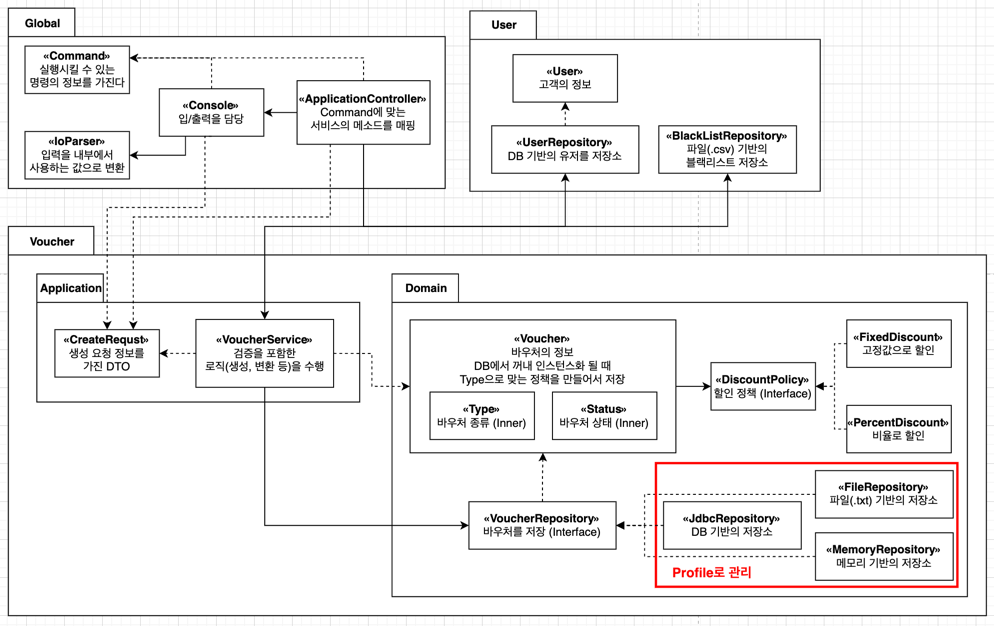
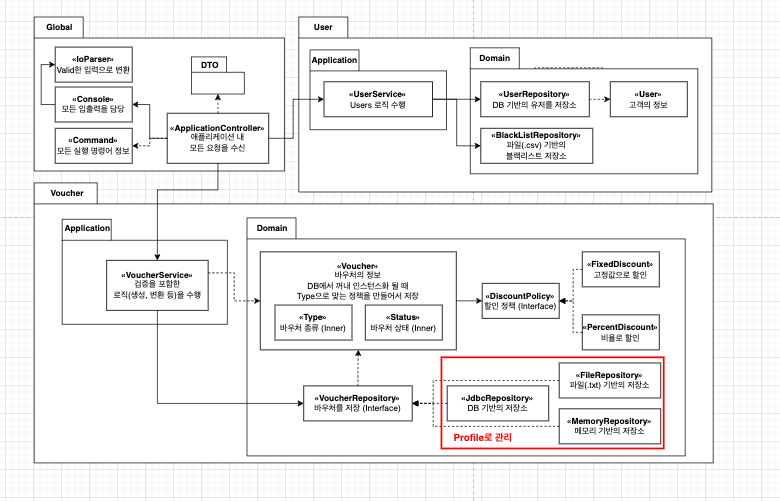
user 생성, user 조회 기능 컨트롤러에 추가

diff --git a/src/main/java/com/devcourse/global/ApplicationController.java b/src/main/java/com/devcourse/global/ApplicationController.java
@@ -1,9 +1,9 @@
 package com.devcourse.global;
 
 import com.devcourse.global.console.Console;
-import com.devcourse.user.repository.BlackListRepository;
+import com.devcourse.global.dto.CreateVoucherRequest;
+import com.devcourse.user.application.UserService;
 import com.devcourse.voucher.application.VoucherService;
-import com.devcourse.voucher.application.dto.CreateVoucherRequest;
 import org.springframework.boot.ApplicationArguments;
 import org.springframework.boot.ApplicationRunner;
 import org.springframework.stereotype.Component;
@@ -14,21 +14,24 @@ import java.util.List;
 public class ApplicationController implements ApplicationRunner {
     private static final String GREETING = """
             === Voucher Program ===
-           Type <CREATE> to create a new voucher.
+           Type <VOUCHER> to create a new voucher.
            Type <LIST> to list all vouchers.
+           Type <USER> to create a new user.
+           Type <USERLIST> to list all users.
            Type <BLACKLIST> to list all black users.
            Type <EXIT> to exit the program.
            """;
-    private static final String CREATION_RESPONSE = "\n:: Voucher Created ::";
-    private static final String EXITING_RESPONSE = "\n:: Application Ended ::";
+    private static final String VOCHER_CREATED = "\n:: Voucher Created ::";
+    private static final String USER_CREATED = "\n:: USER Created ::";
+    private static final String APPLICATION_ENDED = "\n:: Application Ended ::";
 
     private final Console console = new Console();
     private final VoucherService voucherService;
-    private final BlackListRepository blackListRepository;
+    private final UserService userService;
 
-    public ApplicationController(VoucherService voucherService, BlackListRepository blackListRepository) {
+    public ApplicationController(VoucherService voucherService, UserService userService) {
         this.voucherService = voucherService;
-        this.blackListRepository = blackListRepository;
+        this.userService = userService;
     }
 
     @Override
@@ -44,11 +47,13 @@ public class ApplicationController implements ApplicationRunner {
 
     private boolean executeCommand(Command command) {
         switch (command) {
-            case CREATE -> createVoucher();
-            case LIST -> listVouchers();
+            case VOUCHER -> createVoucher();
+            case VOUCHERLIST -> listVouchers();
+            case USER -> createUser();
+            case USERLIST -> listUsers();
             case BLACKLIST -> listBlackUsers();
             case EXIT -> {
-                console.print(EXITING_RESPONSE);
+                console.print(APPLICATION_ENDED);
                 return false;
             }
         }
@@ -59,7 +64,7 @@ public class ApplicationController implements ApplicationRunner {
     private void createVoucher() {
         CreateVoucherRequest request = console.readCreationRequest();
         voucherService.create(request.discount(), request.expiredAt(), request.type());
-        console.print(CREATION_RESPONSE);
+        console.print(VOCHER_CREATED);
     }
 
     private void listVouchers() {
@@ -67,8 +72,19 @@ public class ApplicationController implements ApplicationRunner {
         console.print(responses);
     }
 
+    private void createUser() {
+        String name = console.readUserName();
+        userService.create(name);
+        console.print(USER_CREATED);
+    }
+
+    private void listUsers() {
+        List<String> users = userService.findAll();
+        console.print(users);
+    }
+
     private void listBlackUsers() {
-        List<String> blackList = blackListRepository.findAllBlack();
+        List<String> blackList = userService.findAllBlack();
         console.print(blackList);
     }
 }

diff --git a/src/main/java/com/devcourse/global/console/IoParser.java b/src/main/java/com/devcourse/global/console/IoParser.java
@@ -10,10 +10,13 @@ import java.time.LocalDateTime;
 import java.time.LocalTime;
 import java.time.format.DateTimeFormatter;
 import java.time.format.DateTimeParseException;
+import java.util.regex.Pattern;
 
 class IoParser {
     private static final Logger logger = LoggerFactory.getLogger(IoParser.class);
     private static final DateTimeFormatter TIME_FORMAT = DateTimeFormatter.ofPattern("yyyy-MM-dd");
+    private static final Pattern CHARACTER_ONLY = Pattern.compile("^[a-zA-Z]+$");
+    private static final String INVALID_USER_NAME = "Name MUSH Be Without Number Or Else : ";
     private static final String NOT_SUPPORT_DATE_FORMAT = "Your Input is incorrect Date Format : ";
     private static final String NOT_SUPPORT_COMMAND = "Your Input Is Not Support. Command : ";
     private static final String NOT_SUPPORT_TYPE = "Your Input Is Not Support. Type : ";
@@ -52,6 +55,12 @@ class IoParser {
         int parsedDiscount = parseDiscount(discount);
         validateDiscount(type, parsedDiscount);
         return parsedDiscount;
+    }
+
+    public void validateName(String name) {
+        if (CHARACTER_ONLY.matcher(name).matches()) {
+            throw new IllegalArgumentException(INVALID_USER_NAME + name);
+        }
     }
 
     private LocalDateTime parseExpiration(String expiredAt) {

diff --git a/src/main/java/com/devcourse/global/console/Console.java b/src/main/java/com/devcourse/global/console/Console.java
@@ -1,15 +1,17 @@
 package com.devcourse.global.console;
 
-import com.devcourse.voucher.application.dto.CreateVoucherRequest;
+import com.devcourse.global.dto.CreateVoucherRequest;
 import com.devcourse.voucher.domain.Voucher;
 import com.devcourse.global.Command;
 
 import java.time.LocalDateTime;
 import java.util.List;
 import java.util.Scanner;
+import java.util.regex.Pattern;
 
 public class Console {
     private static final Scanner scanner = new Scanner(System.in);
+    private static final String USER_NAME_GUIDE = "\n:: Input User Name,  ::";
     private static final String GET_COMMAND_GUIDE = """
             \n:: Support Command(CREATE, LIST, BLACKLIST, EXIT) ::
             Type Command :\s""";
@@ -56,5 +58,11 @@ public class Console {
         LocalDateTime expiredAt = parser.toValidExpiredAt(inputExpiredAt);
 
         return new CreateVoucherRequest(discount, expiredAt, type);
+    }
+
+    public String readUserName() {
+        String name = read(USER_NAME_GUIDE);
+        parser.validateName(name);
+        return name;
     }
 }

diff --git a/src/main/java/com/devcourse/user/application/UserService.java b/src/main/java/com/devcourse/user/application/UserService.java
@@ -1,0 +1,33 @@
+package com.devcourse.user.application;
+
+import com.devcourse.user.User;
+import com.devcourse.user.repository.BlackListRepository;
+import com.devcourse.user.repository.UserRepository;
+import org.springframework.stereotype.Service;
+
+import java.util.List;
+
+@Service
+public class UserService {
+    private final UserRepository userRepository;
+    private final BlackListRepository blackListRepository;
+
+    public UserService(UserRepository userRepository, BlackListRepository blackListRepository) {
+        this.userRepository = userRepository;
+        this.blackListRepository = blackListRepository;
+    }
+
+    public void create(String name) {
+        userRepository.save(name);
+    }
+
+    public List<String> findAll() {
+        return userRepository.findAll().stream()
+                .map(User::toStringResponse)
+                .toList();
+    }
+
+    public List<String> findAllBlack() {
+        return blackListRepository.findAllBlack();
+    }
+}

diff --git a/src/main/java/com/devcourse/voucher/domain/repository/JdbcVoucherRepository.java b/src/main/java/com/devcourse/voucher/domain/repository/JdbcVoucherRepository.java
@@ -1,22 +1,18 @@
 package com.devcourse.voucher.domain.repository;
 
-import com.devcourse.global.util.Sql;
+import com.devcourse.global.common.Sql;
 import com.devcourse.voucher.domain.Voucher;
 import org.springframework.context.annotation.Profile;
-import org.springframework.dao.support.DataAccessUtils;
 import org.springframework.jdbc.core.JdbcTemplate;
 import org.springframework.jdbc.core.RowMapper;
 import org.springframework.stereotype.Component;
-import org.springframework.util.CollectionUtils;
 
 import java.time.LocalDateTime;
-import java.util.Collection;
-import java.util.Collections;
 import java.util.List;
 import java.util.Optional;
 import java.util.UUID;
 
-import static com.devcourse.global.util.Sql.Table.VOUCHERS;
+import static com.devcourse.global.common.Sql.Table.VOUCHERS;
 
 @Component
 @Profile("dev")

diff --git a/src/main/java/com/devcourse/user/repository/JdbcUserRepository.java b/src/main/java/com/devcourse/user/repository/JdbcUserRepository.java
@@ -1,6 +1,6 @@
 package com.devcourse.user.repository;
 
-import com.devcourse.global.util.Sql;
+import com.devcourse.global.common.Sql;
 import com.devcourse.user.User;
 import org.springframework.jdbc.core.JdbcTemplate;
 import org.springframework.jdbc.core.RowMapper;
@@ -10,7 +10,7 @@ import java.util.List;
 import java.util.Optional;
 import java.util.UUID;
 
-import static com.devcourse.global.util.Sql.Table.USERS;
+import static com.devcourse.global.common.Sql.Table.USERS;
 
 @Component
 class JdbcUserRepository implements UserRepository {

diff --git a/src/main/java/com/devcourse/user/User.java b/src/main/java/com/devcourse/user/User.java
@@ -2,6 +2,8 @@ package com.devcourse.user;
 
 import java.util.UUID;
 
+import static com.devcourse.global.common.Constant.DELIMITER;
+
 public class User {
     private final UUID id;
     private final String name;
@@ -17,5 +19,9 @@ public class User {
 
     public String name() {
         return name;
+    }
+
+    public String toStringResponse() {
+        return id + DELIMITER + name;
     }
 }

diff --git a/src/test/java/com/devcourse/global/util/SqlTest.java b/src/test/java/com/devcourse/global/util/SqlTest.java
@@ -1,9 +1,10 @@
 package com.devcourse.global.util;
 
+import com.devcourse.global.common.Sql;
 import org.junit.jupiter.api.DisplayName;
 import org.junit.jupiter.api.Test;
 
-import static com.devcourse.global.util.Sql.Table.USERS;
+import static com.devcourse.global.common.Sql.Table.USERS;
 import static org.assertj.core.api.Assertions.assertThat;
 
 class SqlTest {

diff --git a/src/main/java/com/devcourse/global/Command.java b/src/main/java/com/devcourse/global/Command.java
@@ -1,9 +1,11 @@
 package com.devcourse.global;
 
 public enum Command {
-    CREATE,
-    LIST,
+    VOUCHER,
+    VOUCHERLIST,
+    USER,
+    USERLIST,
+    BLACKLIST,
     EXIT,
-    BLACKLIST
     ;
 }

diff --git a/src/main/java/com/devcourse/global/dto/CreateVoucherRequest.java b/src/main/java/com/devcourse/global/dto/CreateVoucherRequest.java
@@ -1,4 +1,4 @@
-package com.devcourse.voucher.application.dto;
+package com.devcourse.global.dto;
 
 import com.devcourse.voucher.domain.Voucher;
 

diff --git a/src/main/java/com/devcourse/global/common/Sql.java b/src/main/java/com/devcourse/global/common/Sql.java
@@ -1,4 +1,4 @@
-package com.devcourse.global.util;
+package com.devcourse.global.common;
 
 public class Sql {
     public enum Table {
